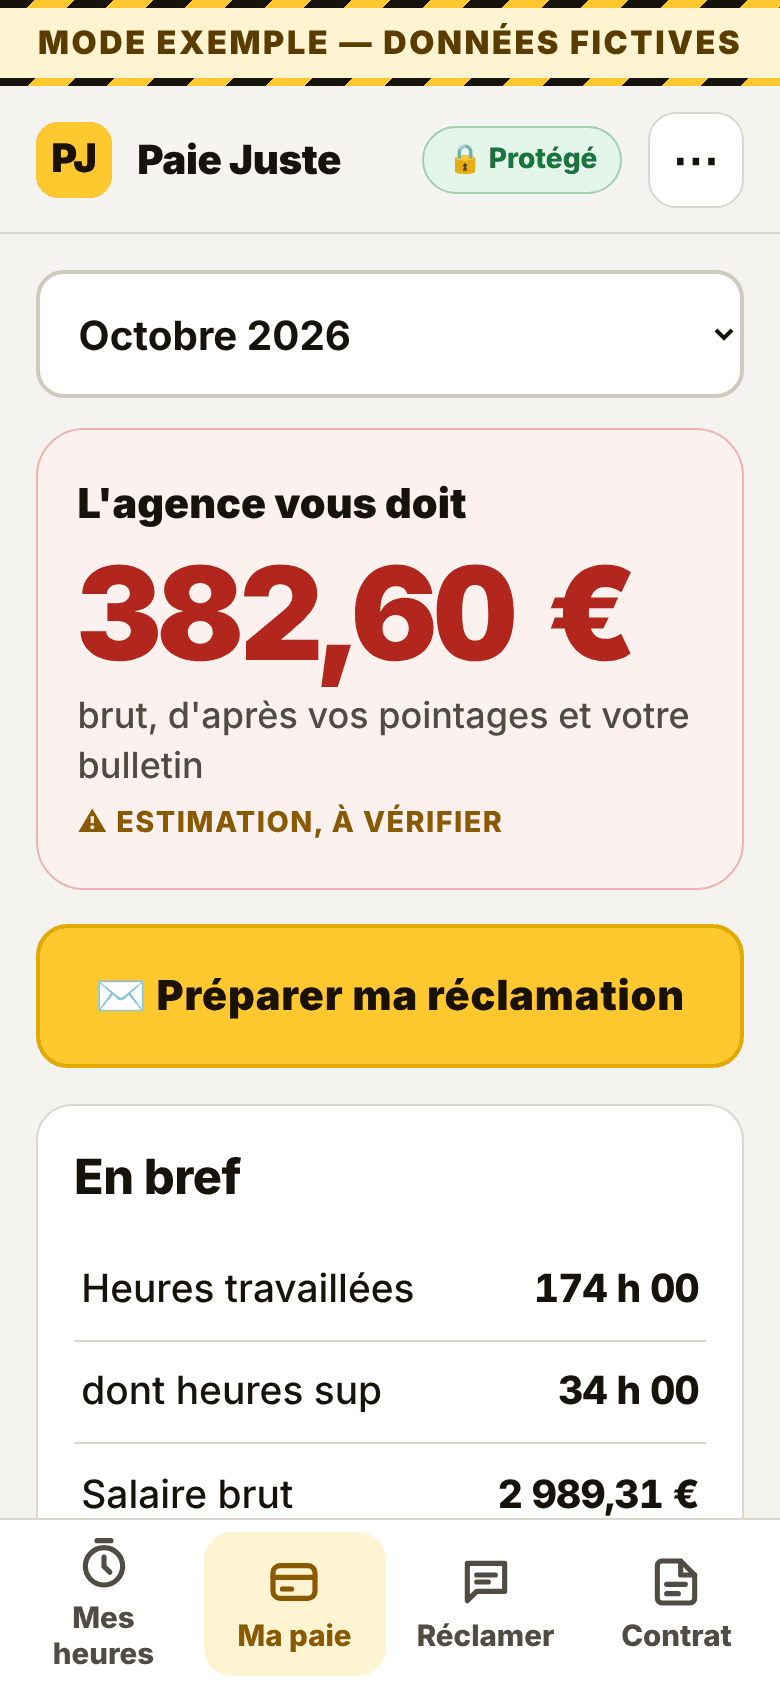
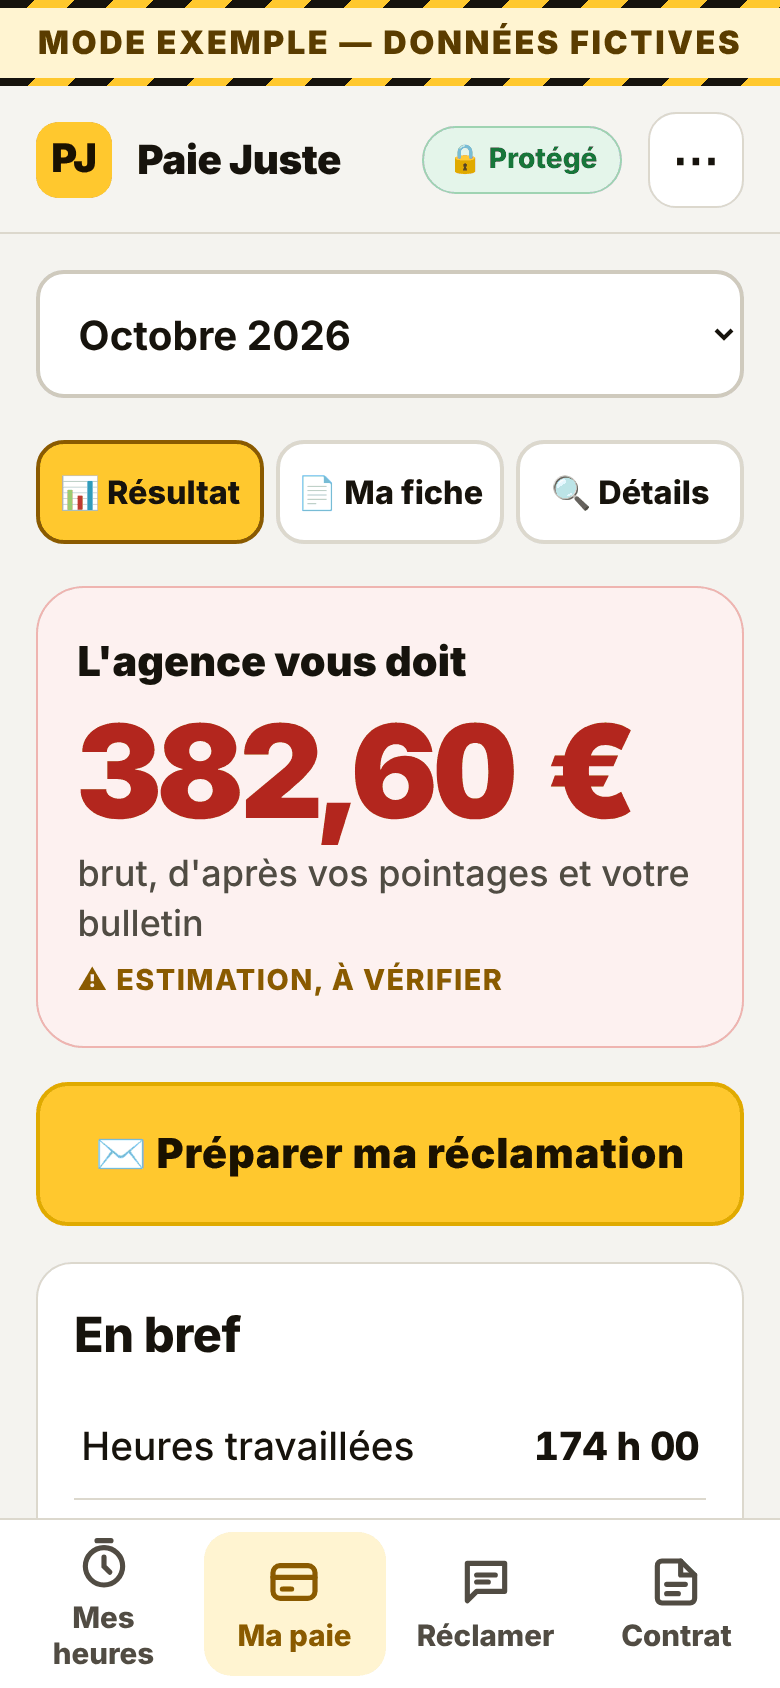
Ma paie en 3 pages, exemple fermé par un vrai document, montants corrigeables (0.9.0)
- Sous-onglets Résultat / Ma fiche / Détails (sections masquées, liaisons
  intactes) ; prévision du mois en cours dans Résultat.
- Ligne par ligne : seules les lignes en écart sont détaillées.
- traiterTexte quitte le mode exemple avant de traiter un vrai document.
- « Corriger » : chaque champ lu est éditable, « Recalculer » refait la
  vérification (extrait « corrigé par vous »).
- Tests navigateur : 3 pages, sortie de l'exemple, correction (94 réussis).

Claude-Session: https://claude.ai/code/session_016NWEJHWN7FpaQE58cH9vDJ

Changed region(s): [[0.0308, 0.2464, 0.9538, 0.8934], [0.6462, 0.8009, 0.8923, 0.8934]]

diff --git a/js/modules/paie.js b/js/modules/paie.js
@@ -16,7 +16,18 @@ import { contratSelect, bindContratSelect } from "./pointer.js";
 import { parseBulletin } from "../bulletin-parse.js";
 import { boutonDocument, brancherDocument, recevoir } from "./document.js";
 
-const ui = { periode: null, avecFin: null };
+const ui = { periode: null, avecFin: null, panneau: null };
+
+/** @param {string} actif */
+function sousOnglets(actif) {
+  return `<div class="sous-onglets" role="tablist" aria-label="Ma paie">${[
+    ["resultat", "📊 Résultat"],
+    ["fiche", "📄 Ma fiche"],
+    ["details", "🔍 Détails"],
+  ]
+    .map(([k, l]) => `<button role="tab" data-p="${k}" aria-selected="${k === actif}">${l}</button>`)
+    .join("")}</div>`;
+}
 /** Lecture d'un bulletin (photo ou PDF) : état de l'écran, rien n'est enregistré ici. */
 const bimp = {
   progress: null,
@@ -47,6 +58,8 @@ const NOMS_CHAMPS = {
 recevoir("bulletin", (ctx, text) => {
   Object.assign(bimp, { error: "", progress: null });
   analyserBulletin(text);
+  ui.panneau = "fiche";
+  if (bimp.periode) ui.periode = bimp.periode;
   ctx.go("paie");
   window.scrollTo(0, 0);
 });
@@ -89,7 +102,6 @@ function typeDevine(c) {
   if (!f) return "cdi";
   return /mission|ifm/i.test(f.extrait) ? "interim" : "cdd";
 }
-const fmtHeures = (h) => String(h).replace(".", ",") + " h";
 
 function verifCard(c, periodeCourante) {
   const F = bimp.champs;
@@ -146,13 +158,16 @@ function verifCard(c, periodeCourante) {
     ${verdict}
     <ul class="verifs">${items.join("") || item(null, "Rien à contrôler sur ce bulletin.")}</ul>
     ${toucheTable(valeursLues(), bimp.detail, v, "touche")}
-    <details><summary class="small" style="min-height:44px;display:flex;align-items:center">Ce que j'ai lu</summary>
-      <ul class="verifs">${Object.entries(F)
+    <details id="bi-corriger"><summary class="btn" style="margin-top:.6rem">✏ Un montant est faux ? Corriger</summary>
+      <p class="small muted">Corrigez le chiffre comme il est écrit sur votre fiche, puis appuyez sur « Recalculer ».</p>
+      ${Object.entries(F)
         .map(
           ([k, f]) =>
-            `<li><span>${esc(NOMS_CHAMPS[k] || k)} : <b>${k === "heures" ? fmtHeures(f.value) : fmtEur(f.value)}</b><div class="ex">« ${esc(f.extrait)} »</div></span></li>`,
+            `<div class="corr-row"><label for="bc-${k}">${esc(NOMS_CHAMPS[k] || k)}${k === "heures" ? " (h)" : " (€)"}</label>
+            <input id="bc-${k}" data-champ="${k}" type="number" inputmode="decimal" step="0.01" value="${f.value}"></div>`,
         )
-        .join("")}</ul></details>
+        .join("")}
+      <button class="btn primary" id="bi-recalc">🔄 Recalculer</button></details>
     <button class="btn primary big" id="bi-garder">✅ Garder ce bulletin</button>
     <label class="btn" for="bi-file" style="cursor:pointer">📷 Reprendre la photo</label><input id="bi-file" type="file" accept="image/*,application/pdf" multiple hidden>
     ${etat}
@@ -204,6 +219,25 @@ function bindVerif(ctx, el, c, periodeCourante) {
       ctx.go("paie");
     };
   }
+  const rc = el.querySelector("#bi-recalc");
+  if (rc) {
+    rc.onclick = () => {
+      let n = 0;
+      el.querySelectorAll("[data-champ]").forEach((i) => {
+        const inp = /** @type {HTMLInputElement} */ (i);
+        const k = inp.dataset.champ;
+        const v = Number(String(inp.value).replace(",", "."));
+        if (k && bimp.champs[k] && inp.value !== "" && Number.isFinite(v) && v !== bimp.champs[k].value) {
+          bimp.champs[k] = { value: v, extrait: "corrigé par vous (lu : " + bimp.champs[k].value + ")" };
+          n++;
+        }
+      });
+      ctx.toast(
+        n ? `${n} montant${n > 1 ? "s" : ""} corrigé${n > 1 ? "s" : ""} : vérification refaite.` : "Rien n'a changé.",
+      );
+      ctx.go("paie");
+    };
+  }
   const g = el.querySelector("#bi-garder");
   if (g) {
     g.onclick = async () => {
@@ -231,6 +265,7 @@ function bindVerif(ctx, el, c, periodeCourante) {
       await ctx.append("bulletin", data);
       Object.assign(bimp, { champs: null, detail: [], raw: "", periode: null, finContrat: null });
       ui.periode = periode;
+      ui.panneau = "resultat";
       ctx.toast(c ? "Bulletin gardé." : "Bulletin gardé. Contrat créé : complétez-le dans « Contrat ».");
       await ctx.refresh();
     };
@@ -445,8 +480,11 @@ function bulletinCard(P) {
 
 function compareCard(P) {
   if (P.cmp.verdict === "incomplet") return "";
-  const lignes = P.cmp.lines
-    .filter((l) => l.recu != null && (l.recu || l.attendu))
+  const vues = P.cmp.lines.filter((l) => l.recu != null && (l.recu || l.attendu));
+  // Les lignes justes tiennent en une seule ligne : on ne détaille que ce qui ne va pas.
+  const justes = vues.filter((l) => Math.abs(l.ecart) <= 0.004);
+  const lignes = vues
+    .filter((l) => Math.abs(l.ecart) > 0.004)
     .map((l) => {
       const manque = l.ecart > 0.004,
         plus = l.ecart < -0.004;
@@ -460,7 +498,10 @@ function compareCard(P) {
     })
     .join("");
   const t = P.cmp.total;
-  return `<div class="card"><h3>Ligne par ligne</h3><ul class="cmp-list">${lignes}
+  const ok = justes.length
+    ? `<li><div class="cmp-t"><span>${justes.map((l) => esc(l.label)).join(", ")}</span><span class="ok-txt">✅ juste</span></div></li>`
+    : "";
+  return `<div class="card"><h3>Ligne par ligne</h3><ul class="cmp-list">${lignes}${ok}
     <li class="tot"><div class="cmp-t"><span>Total</span>${t > 0.004 ? `<b class="ecart-pos">il manque ${fmtEur(t)}</b>` : `<b>${fmtEur(Math.abs(t))}</b>`}</div></li></ul>
     ${P.cmp.ecartHeures ? `<p class="note">Heures : ${String(Math.round(P.cmp.heuresPointees * 100) / 100).replace(".", ",")} h pointées contre ${String(P.cmp.heuresPayees).replace(".", ",")} h payées (écart ${String(P.cmp.ecartHeures).replace(".", ",")} h).</p>` : ""}
     <p class="small muted">Estimation, à vérifier. Ce n'est pas un conseil juridique.</p></div>`;
@@ -485,16 +526,27 @@ export default {
     // Une fiche vient d'être lue : sa vérification passe en premier.
     const enCours = !!(bimp.champs && Object.keys(bimp.champs).length);
     const verif = verifCard(c, periode === "contrat" ? cur : periode);
+    // Trois pages courtes au lieu d'une longue : Résultat, Ma fiche, Détails.
+    const panneau = enCours ? "fiche" : ui.panneau || "resultat";
+    // Mois en cours sans bulletin : la prévision du net EST le résultat.
+    const prevision = periode === cur && P.cmp.verdict === "incomplet";
     el.innerHTML = `${contratSelect(ctx)}
       <div class="row" style="margin-bottom:.8rem"><select id="per" class="grow">${opts.map((m) => `<option value="${m}" ${m === periode ? "selected" : ""}>${fmtMois(m)}</option>`).join("")}<option value="contrat" ${periode === "contrat" ? "selected" : ""}>Toute la durée du contrat</option></select></div>
-      ${enCours ? verif : ""}
+      ${sousOnglets(panneau)}
+      <section data-panel="resultat" ${panneau === "resultat" ? "" : "hidden"}>
       ${["doit", "ordre", "trop_percu"].includes(P.cmp.verdict) ? hero(P) : ""}
       ${P.cmp.verdict === "doit" ? `<button class="btn primary big" id="go-rec" style="margin-bottom:1rem">✉ Préparer ma réclamation</button>` : ""}
       ${resumeCard(ctx, P, periode, periode === cur)}
+      ${P.cmp.verdict === "incomplet" ? `<button class="btn" data-p="fiche">📄 Vérifier avec ma fiche de paie</button>` : ""}
       ${compareCard(P)}
-      ${enCours ? "" : verif}
-      <h3 class="section-titre">Pour vérifier en détail</h3>
-      ${forecast(ctx, P, periode === cur)}
+      ${prevision ? forecast(ctx, P, true) : ""}
+      </section>
+      <section data-panel="fiche" ${panneau === "fiche" ? "" : "hidden"}>
+      ${verif}
+      ${bulletinCard(P)}
+      </section>
+      <section data-panel="details" ${panneau === "details" ? "" : "hidden"}>
+      ${prevision ? "" : forecast(ctx, P, periode === cur)}
       <details class="card"><summary><h3>Mes heures, semaine par semaine</h3></summary>${bars(P)}
         ${P.weeks.some((w) => w.flags.includes("tiers")) ? `<p class="note">⚠ Une semaine dépasse le tiers de votre durée de contrat (limite des heures complémentaires, L3123-20).</p>` : ""}
         ${P.weeks.some((w) => w.flags.includes("legale")) ? `<p class="note">⚠ Une semaine atteint 35 h alors que vous êtes à temps partiel (L3123-9).</p>` : ""}</details>
@@ -519,8 +571,20 @@ export default {
             : ""
         }
         ${pres && pres.horsDelai ? `<p class="note bad">Une partie de cette période a plus de 3 ans : délai de prescription des salaires (L3245-1) peut-être dépassé.</p>` : ""}</details>
-      ${bulletinCard(P)}
-      ${primesCard(P)}`;
+      ${primesCard(P)}
+      </section>`;
+    el.querySelectorAll("[data-p]").forEach((b) => {
+      /** @type {HTMLElement} */ (b).onclick = () => {
+        ui.panneau = /** @type {HTMLElement} */ (b).dataset.p;
+        el.querySelectorAll("[data-panel]").forEach((x) => {
+          /** @type {HTMLElement} */ (x).hidden = /** @type {HTMLElement} */ (x).dataset.panel !== ui.panneau;
+        });
+        el.querySelectorAll(".sous-onglets [data-p]").forEach((x) =>
+          x.setAttribute("aria-selected", String(/** @type {HTMLElement} */ (x).dataset.p === ui.panneau)),
+        );
+        window.scrollTo(0, 0);
+      };
+    });
     bindContratSelect(ctx, el);
     animate(el.querySelector("#hero-amt"), P.cmp.verdict === "doit" ? P.cmp.total : round2(P.exp.total + P.egalite));
     el.querySelector("#per").onchange = (e) => {

diff --git a/css/app.css b/css/app.css
@@ -1196,7 +1196,7 @@ table.resume tr.tot td {
   color: var(--green);
 }
 table.resume td:first-child {
-  width: 58%;
+  width: auto;
 }
 .verdict {
   font-size: 1.35rem;
@@ -1342,4 +1342,63 @@ ul.verifs .ic {
 .btn + .card,
 .btn + details.card {
   margin-top: 0.8rem;
+}
+
+/* Ma paie : trois pages courtes */
+.sous-onglets {
+  position: sticky;
+  top: 0;
+  z-index: 5;
+  display: grid;
+  grid-template-columns: repeat(3, 1fr);
+  gap: 0.35rem;
+  padding: 0.35rem 0;
+  margin-bottom: 0.8rem;
+  background: var(--bg);
+}
+.sous-onglets button {
+  min-height: 52px;
+  border: 2px solid var(--line);
+  border-radius: 14px;
+  background: var(--card);
+  color: var(--fg);
+  font: inherit;
+  font-weight: 800;
+  font-size: 0.95rem;
+  cursor: pointer;
+}
+.sous-onglets button[aria-selected="true"] {
+  border-color: var(--amber);
+  background: var(--jaune);
+}
+#bi-corriger summary {
+  list-style: none;
+}
+#bi-corriger summary::-webkit-details-marker {
+  display: none;
+}
+.sous-onglets button {
+  white-space: nowrap;
+  font-size: 0.9rem;
+  padding: 0 0.2rem;
+}
+.resume td.num,
+.calc td.r {
+  white-space: nowrap;
+}
+.corr-row {
+  display: grid;
+  grid-template-columns: 1fr 8.5rem;
+  gap: 0.5rem;
+  align-items: center;
+  margin: 0.35rem 0;
+}
+.corr-row label {
+  margin: 0;
+}
+.corr-row input {
+  margin: 0;
+}
+.resume td.num {
+  width: 1%;
 }

diff --git a/js/modules/document.js b/js/modules/document.js
@@ -71,7 +71,7 @@ export async function ouvrirDocuments(ctx, files, prefere) {
     return;
   }
   fermer();
-  traiterTexte(ctx, text, prefere);
+  await traiterTexte(ctx, text, prefere);
 }
 
 /** Messages de l'OCR (en anglais) → français simple. */
@@ -83,7 +83,12 @@ function traduire(s) {
 }
 
 /** @param {string} text @param {"bulletin"|"contrat"} [prefere] */
-export function traiterTexte(ctx, text, prefere) {
+export async function traiterTexte(ctx, text, prefere) {
+  // Un vrai document arrive pendant l'exemple : on ferme l'exemple, place aux vraies données.
+  if (ctx.demo) {
+    await ctx.setDemo(false);
+    ctx.toast("Exemple fermé : place à vos vrais documents.");
+  }
   let { type } = devinerDocument(text);
   if (!type) {
     const b = parseBulletin(text).champs;

diff --git a/sw.js b/sw.js
@@ -1,7 +1,7 @@
 /* Service worker Paie Juste : cache local, hors ligne, aucune ressource externe.
    URLs relatives au script, pour que le cache et le scope restent dans le dossier
    de l'appli — en local « / », sur GitHub Pages « /Paie-juste/ ». */
-const VERSION = "paie-juste-v0.8.1";
+const VERSION = "paie-juste-v0.9.0";
 const CORE = [
   "./",
   "./index.html",

diff --git a/js/version.js b/js/version.js
@@ -1,4 +1,4 @@
 export const APP_ID = "pointeuse-paie-interim";
 export const APP_NAME = "Pointeuse & Paie";
-export const APP_VERSION = "0.8.1";
+export const APP_VERSION = "0.9.0";
 export const DISCLAIMER = "Estimation, à vérifier. Ce n'est pas un conseil juridique.";

diff --git a/CHANGELOG.md b/CHANGELOG.md
@@ -1,5 +1,16 @@
 # Journal des changements
 
+## 0.9.0 — 2026-11-12
+
+Ma paie en 3 pages courtes, l'exemple qui s'efface tout seul, et les montants corrigeables. Les règles de calcul ne changent pas.
+
+- Ma paie a 3 onglets en haut : « 📊 Résultat » (verdict, réclamation, En bref, lignes qui ne vont pas), « 📄 Ma fiche » (ajouter ou vérifier une fiche de paie, saisie à la main) et « 🔍 Détails » (net, heures par semaine, calcul, primes). Moins de défilement.
+- Dans « Ligne par ligne », seules les lignes qui posent problème sont détaillées. Les lignes justes tiennent en une ligne.
+- Le mode exemple se ferme tout seul dès qu'on met un vrai document (photo ou PDF) : la fiche est vérifiée avec vos vraies données.
+- « ✏ Un montant est faux ? Corriger » : chaque montant lu sur la fiche est modifiable. « 🔄 Recalculer » refait la vérification, et le montant reste marqué « corrigé par vous ».
+- Mois en cours sans fiche : la prévision du net s'affiche dans Résultat.
+- Les montants ne se coupent plus sur deux lignes. Vérifié sans débordement à 390 px, avec deux polices différentes.
+
 ## 0.8.1 — 2026-11-12
 
 Des écrans rangés dans l'ordre où on les lit. Les montants de paie ne changent pas.
